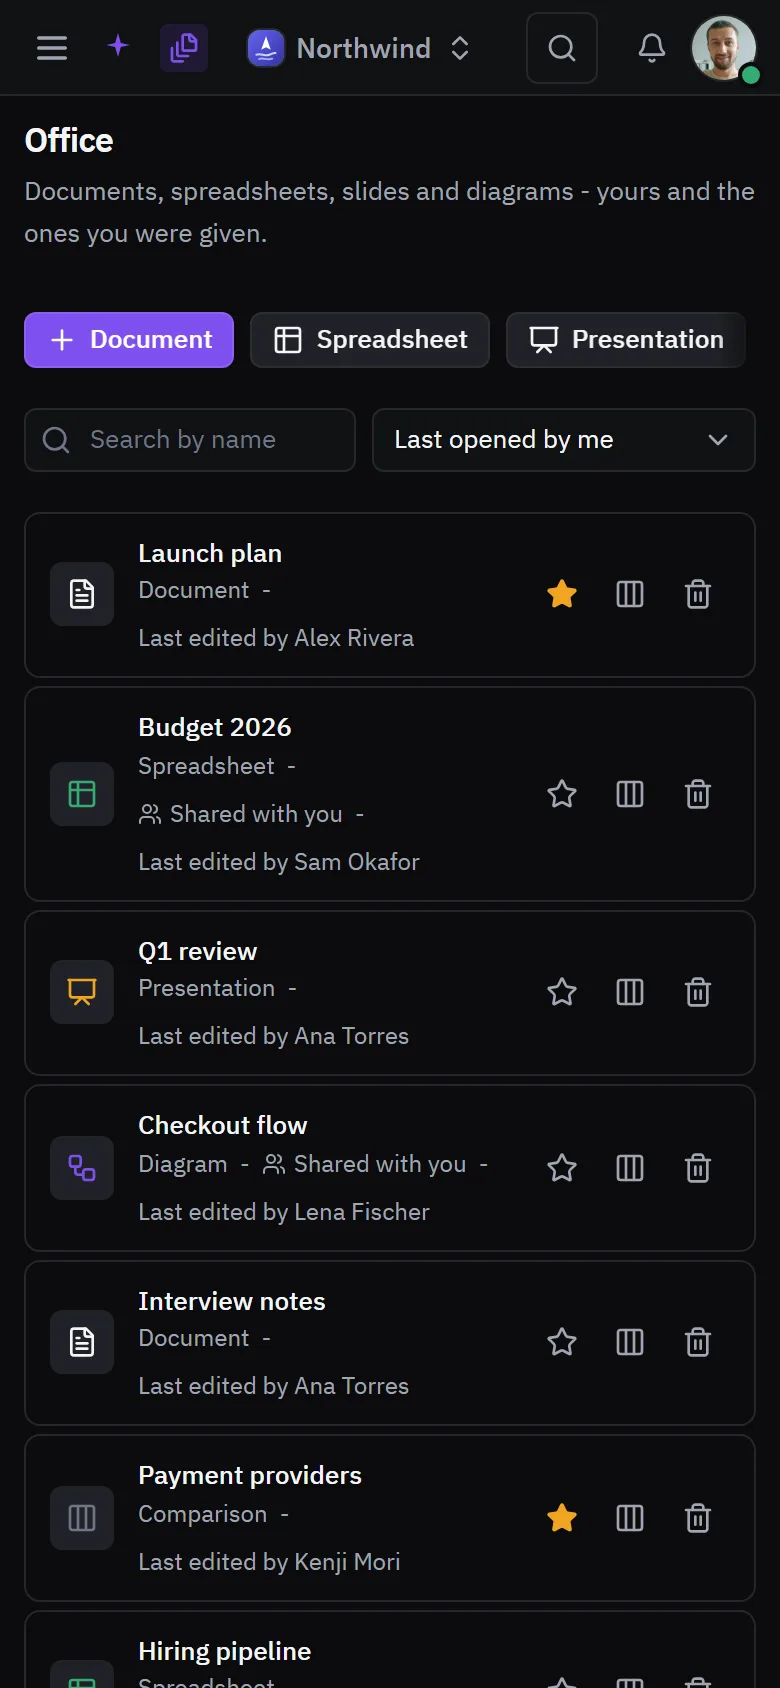
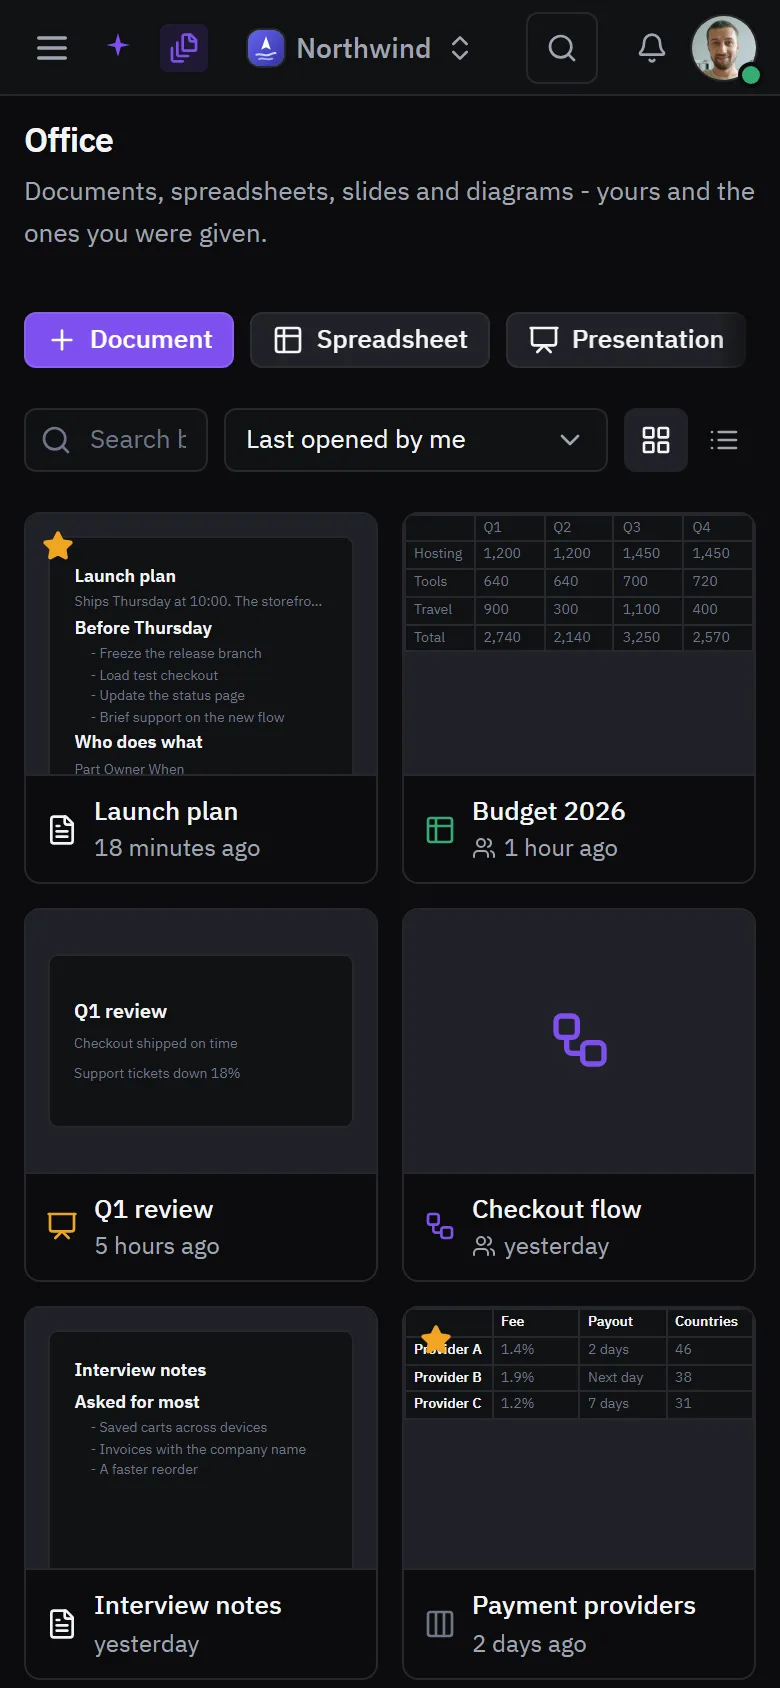
📝 docs(readme): Office tiles show each document's first page

diff --git a/dashboard/scripts/readme-media/fixtures/office.ts b/dashboard/scripts/readme-media/fixtures/office.ts
@@ -5,6 +5,8 @@ import { getSchema } from "@tiptap/core";
 import type { OfficeKind } from "@polaris/core";
 import { prosemirrorJSONToYXmlFragment } from "y-prosemirror";
 import { OFFICE_FIELD } from "@/lib/office/content";
+import { previewDocument } from "@/lib/office/export";
+import * as preview from "@/lib/office/preview";
 import { documentExtensions } from "@/components/rich-text/document-schema";
 import { TEAM, VIEWER, ago, id } from "./people";
 import type { SceneContext } from "../runtime/scene";
@@ -209,4 +211,95 @@ export function launchPlanContent(ctx: SceneContext): number[] {
         doc.getXmlFragment(OFFICE_FIELD)
     );
     return Array.from(Y.encodeStateAsUpdate(doc));
+}
+
+/**
+ * A tile's preview, as `GET /api/office/:id/preview` answers it. The launch plan
+ * is cut from its own content by the route's `previewDocument`; the rest have no
+ * stored content here, so their first page is written out and cut by the same
+ * helpers the route uses.
+ */
+export function officePreview(ctx: SceneContext, documentId: string): preview.OfficePreview {
+    const say = ctx.say;
+    if (documentId === OPEN_DOCUMENT_ID) {
+        return previewDocument("doc", Uint8Array.from(launchPlanContent(ctx)));
+    }
+    const index = officeDocuments(ctx).findIndex((row) => row.id === documentId);
+    const doc = (...lines: [string, string][]) => ({
+        kind: "doc" as const,
+        blocks: preview.clipBlocks(lines.map(([kind, text]) => ({ kind, text })))
+    });
+    switch (index) {
+        case 1:
+            return {
+                kind: "sheet",
+                rows: preview.clipGrid([
+                    ["", "Q1", "Q2", "Q3", "Q4"],
+                    [say("Hosting", "Alojamiento"), "1,200", "1,200", "1,450", "1,450"],
+                    [say("Tools", "Herramientas"), "640", "640", "700", "720"],
+                    [say("Travel", "Viajes"), "900", "300", "1,100", "400"],
+                    ["Total", "2,740", "2,140", "3,250", "2,570"]
+                ])
+            };
+        case 2:
+            return {
+                kind: "slides",
+                ...preview.clipSlides([
+                    {
+                        lines: [
+                            say("Q1 review", "Revisión del T1"),
+                            say("Checkout shipped on time", "El nuevo pago salió a tiempo"),
+                            say("Support tickets down 18%", "Tickets de soporte -18%")
+                        ]
+                    },
+                    ...Array.from({ length: 11 }, () => ({ lines: [] }))
+                ])
+            };
+        case 4:
+            return doc(
+                ["h1", say("Interview notes", "Notas de entrevistas")],
+                ["h2", say("Asked for most", "Lo más pedido")],
+                ["li", say("Saved carts across devices", "Carritos guardados entre dispositivos")],
+                [
+                    "li",
+                    say("Invoices with the company name", "Facturas con el nombre de la empresa")
+                ],
+                ["li", say("A faster reorder", "Repetir un pedido más rápido")]
+            );
+        case 5:
+            return {
+                kind: "comparison",
+                rows: preview.clipGrid([
+                    [
+                        "",
+                        say("Fee", "Comisión"),
+                        say("Payout", "Cobro"),
+                        say("Countries", "Países")
+                    ],
+                    ["Provider A", "1.4%", say("2 days", "2 días"), "46"],
+                    ["Provider B", "1.9%", say("Next day", "Al día siguiente"), "38"],
+                    ["Provider C", "1.2%", say("7 days", "7 días"), "31"]
+                ])
+            };
+        case 6:
+            return {
+                kind: "sheet",
+                rows: preview.clipGrid([
+                    [say("Candidate", "Candidato"), say("Stage", "Fase"), say("Next", "Siguiente")],
+                    ["C-104", say("Screen", "Filtro"), say("Call Tue", "Llamada mar")],
+                    ["C-117", say("Onsite", "Presencial"), say("Feedback", "Valoración")],
+                    ["C-121", say("Offer", "Oferta"), say("Sign", "Firma")]
+                ])
+            };
+        case 7:
+            return doc(
+                ["h1", say("Onboarding guide", "Guía de bienvenida")],
+                ["p", say("Your first week, day by day.", "Tu primera semana, día a día.")],
+                ["h2", say("Day one", "Primer día")],
+                ["li", say("Accounts and access", "Cuentas y accesos")],
+                ["li", say("Meet the team", "Conocer al equipo")]
+            );
+        default:
+            return { kind: "none" };
+    }
 }

diff --git a/dashboard/scripts/readme-media/scenes/office.tsx b/dashboard/scripts/readme-media/scenes/office.tsx
@@ -6,12 +6,21 @@ import { defineScene } from "../runtime/scene";
 import { OfficeView } from "@/app/(app)/office/office-view";
 import { DocEditor } from "@/app/(app)/office/d/[id]/doc-editor";
 import { DocumentChrome } from "@/app/(app)/office/document-chrome";
-import { OPEN_DOCUMENT_ID, launchPlanContent, officeDocuments } from "../fixtures/office";
+import {
+    OPEN_DOCUMENT_ID,
+    launchPlanContent,
+    officeDocuments,
+    officePreview
+} from "../fixtures/office";
 
 export const office = defineScene({
     id: "office",
     path: "/office",
     actions: (ctx) => ({ listDocumentsAction: () => ({ documents: officeDocuments(ctx) }) }),
+    api: (ctx) => ({
+        "GET /api/office/:id/preview": ({ url }) =>
+            officePreview(ctx, decodeURIComponent(url.pathname.split("/")[3] ?? ""))
+    }),
     render: (ctx) => (
         <Chrome>
             <OfficeView
